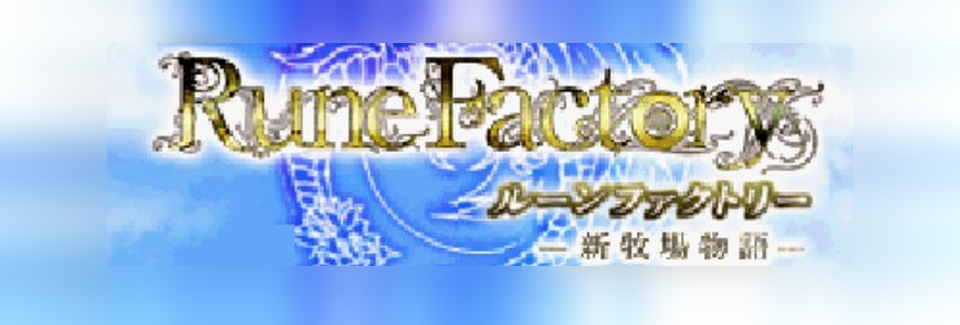
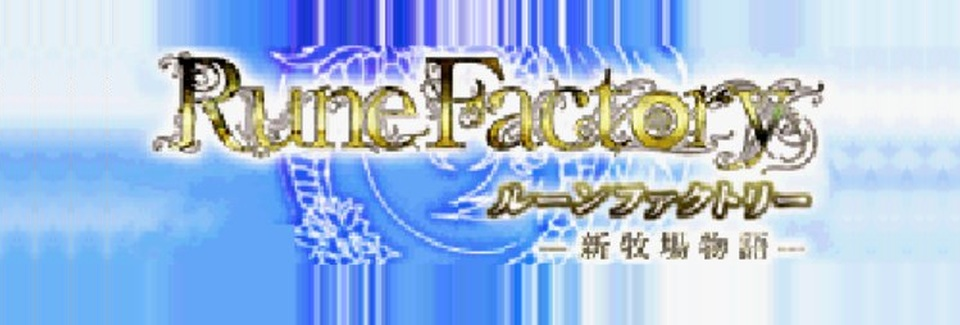
第九十八次：rf1 横幅去掉两侧模糊，改纯天空窄条(18px)逐行镜像补齐 + 侧区3行纵向均值去条纹；build_titles.py rf1_banner 同步

diff --git a/js/pages.js b/js/pages.js
@@ -4967,6 +4967,15 @@ const PAGES = [
     {
         key: 'changelog', group: 'lore', title: '更新日志', icon: 'note',
         body: () => `
+            <h2 class="h2">2026-10-30　第九十八次：rf1 横幅去掉两侧模糊，改用「纯天空窄条逐行镜像」补齐（清晰、零色差接缝）</h2>
+            <ul class="ul">
+                <li class="li"><b>问题</b>：第九十七次为补出「— 新牧場物語 —」，把标题块缩入可见带后，两侧用高斯模糊底 + 大羽化过渡。用户反馈<b>不要模糊</b>——卡面上两侧确实是雾状，和中间清晰区对比明显。</li>
+                <li class="li"><b>为什么侧边必须补</b>：卡片可见带折算回源图只有约 135px，而标题块（RUNE FACTORY 顶 y≈155 → 副标底 y≈320）要 165px，只能先缩到占宽约 78%，左右各留约 11%（约 107px）要补。而 4:3 的源画面在 4.3:1 画幅下<b>数学上不可能全幅铺满还保住副标</b>，侧边内容只能造。</li>
+                <li class="li"><b>试过并否掉的补法</b>：① 逐行边缘色插值／纯色填充——面板边缘本身就是亮白云，铺开成一条白带，接缝反而更明显；② 镜像整块面板——会把 R 花饰镜像出来；③ 从 ROM 图层 A02 按洋红抠图——透明区是洋红＋蓝双色抖动，抠完剩一屏蓝条；④ 逐行取天空主色铺满再只叠金字的「去天空留 logo」——背景过浅，把金字的白描边吃掉，对比全失。</li>
+                <li class="li"><b>最终做法</b>：每行取面板最外侧 <b>18px 纯天空</b>（源图上 R 花饰约从 x≈25 起，18px 内是纯天空），按 2K 周期镜像铺向两侧——接缝处像素与面板边缘<b>完全相同</b>，既零色差又是真实像素，全程无任何模糊；再对侧区沿 y 做 <b>3 行均值</b>压掉逐行镜像的纵向条纹（只作用于侧区，面板不动）。</li>
+                <li class="li"><b>构建</b>：<code>_title_src/build_titles.py</code> 的 <code>rf1_banner()</code> 已换成该算法（参数 <code>strip=18, vs=1</code>），重跑可复现；其余 9 张未动。</li>
+                <li class="li"><b>核验</b>：按真实卡面 284×66 出图确认——金字与「新牧場物語」清晰，两侧是清晰天空像素（无雾感）、无可见接缝。</li>
+            </ul>
             <h2 class="h2">2026-10-30　第九十七次：符文1 作品卡横幅补出「— 新牧場物語 —」副标题（原先被卡片可见带切掉）</h2>
             <ul class="ul">
                 <li class="li"><b>问题</b>：上一版 <code>assets/title/rf1.jpg</code> 直接按 2.95:1 裁横带，把标题画面下方的「—　新牧場物語　—」（符文1 的日版副标，中文圈即《符文工房：新牧场物语》）连同一截「ルーンファクトリー」切掉了，卡上只剩被放大的 RUNE FACTORY。</li>

diff --git a/_title_src/build_titles.py b/_title_src/build_titles.py
@@ -83,11 +83,20 @@ def card_band(W, H):
     return top, int(round(top + vis))
 
 
-def rf1_banner(y0=151, y1=325, feather=56):
-    """RF1 横幅：标题块等比缩到卡片可见带内，两侧用「按行边缘色插值」补天空。
+def rf1_banner(y0=151, y1=325, strip=18, vs=1):
+    """RF1 横幅：标题块等比缩到卡片可见带内，两侧用「纯天空窄条的逐行镜像」补齐。
 
     参数 y0/y1 是源图（582x442）里标题块的上下界：
       RUNE FACTORY 顶 ≈155 / ルーンファクトリー ≈240..275 / — 新牧場物語 — ≈290..320
+
+    为什么不是模糊延展：卡片可见带折算回源图只有约 135px，而标题块要 165px，
+    所以必须先等比缩小（缩到占宽约 78%），左右各留约 11% 需要补。
+    补法有三种，只有「镜像纯天空窄条」既清晰又无缝：
+      · 边缘纯色/插值 → 面板边缘本来就是亮白云，铺开成一条白带，见 P1/Q 实验；
+      · 高斯模糊     → 用户明确否掉（「不要模糊」）；
+      · 镜像窄条     → 接缝处像素与面板边缘完全相同（零色差），且是真实像素，不糊。
+    窄条取 18px（源图上 R 花饰约从 x≈25 起，18px 内是纯天空，不会镜像出花饰）。
+    侧区再沿 y 做 3 行均值（vs=1），压掉逐行镜像的纵向条纹 —— 只作用于侧区，面板不动。
     """
     W = OUT_W
     H = int(round(OUT_W / RATIO))
@@ -102,39 +111,42 @@ def rf1_banner(y0=151, y1=325, feather=56):
     x = (W - nw) // 2
     y = BT + ((BB - BT) - nh) // 2
 
-    base = Image.new('RGB', (W, H))
+    base = Image.new('RGB', (W, H), (208, 232, 250))
     ap, bp = art.load(), base.load()
-    for ry in range(nh):                     # 每行左右边界色 → 向外插值到画布两端
-        cl, cr = ap[0, ry], ap[nw - 1, ry]
+    K = strip
+    for ry in range(nh):                     # 逐行镜像铺两侧（周期 2K，接缝处连续）
         Y = y + ry
-        lt = tuple(min(255, int(c * 1.03 + 12)) for c in cl)
-        for bx in range(x):
-            t = bx / max(1, x - 1)
-            bp[bx, Y] = tuple(int(lt[i] + (cl[i] - lt[i]) * t) for i in range(3))
-        rt = tuple(min(255, int(c * 1.03 + 12)) for c in cr)
-        for bx in range(x + nw, W):
-            t = (bx - (x + nw)) / max(1, W - (x + nw) - 1)
-            bp[bx, Y] = tuple(int(cr[i] + (rt[i] - cr[i]) * t) for i in range(3))
-        for bx in range(x, x + nw):
-            bp[bx, Y] = ap[bx - x, ry]
-    for Y in range(0, y):                    # 上下同理
-        t = Y / max(1, y - 1)
-        for bx in range(W):
-            c = bp[bx, y]
-            top = tuple(min(255, int(v * 1.05 + 18)) for v in c)
-            bp[bx, Y] = tuple(int(top[i] + (c[i] - top[i]) * (1 - t)) for i in range(3))
+        row = [ap[c, ry] for c in range(nw)]
+        for dx in range(x):
+            i = dx % (2 * K)
+            bp[x - 1 - dx, Y] = row[i if i < K else 2 * K - 1 - i]
+        for dx in range(W - (x + nw)):
+            i = dx % (2 * K)
+            bp[x + nw + dx, Y] = row[nw - 1 - (i if i < K else 2 * K - 1 - i)]
+        for c in range(nw):
+            bp[x + c, Y] = row[c]
+    for ry in range(nh):                     # 只对侧区做纵向 3 行均值，去条纹
+        if not vs:
+            break
+        Y = y + ry
+        lo, hi = max(0, ry - vs), min(nh - 1, ry + vs)
+        for bx in list(range(x)) + list(range(x + nw, W)):
+            acc = [0, 0, 0]
+            for k in range(lo, hi + 1):
+                c = bp[bx, y + k]
+                acc[0] += c[0]; acc[1] += c[1]; acc[2] += c[2]
+            n = hi - lo + 1
+            bp[bx, Y] = (acc[0] // n, acc[1] // n, acc[2] // n)
+    for Y in range(0, y):                    # 上下补满（卡片上看不到，只为整图完整）
+        for c in range(W):
+            bp[c, Y] = bp[c, y]
     for Y in range(y + nh, H):
-        t = (Y - (y + nh)) / max(1, H - (y + nh) - 1)
-        for bx in range(W):
-            c = bp[bx, y + nh - 1]
-            bot = tuple(min(255, int(v * 1.05 + 18)) for v in c)
-            bp[bx, Y] = tuple(int(c[i] + (bot[i] - c[i]) * t) for i in range(3))
-    base = base.filter(ImageFilter.GaussianBlur(16))
+        for c in range(W):
+            bp[c, Y] = bp[c, y + nh - 1]
 
-    base.paste(art, (x, y), Image.new('L', (nw, nh), 255).filter(
-        ImageFilter.GaussianBlur(feather)))
+    base.paste(art, (x, y))
     p = os.path.join(OUT, 'rf1.jpg')
-    base.convert('RGB').save(p, quality=93, optimize=True, progressive=True)
+    base.save(p, quality=94, optimize=True, progressive=True)
     return p
 
 
